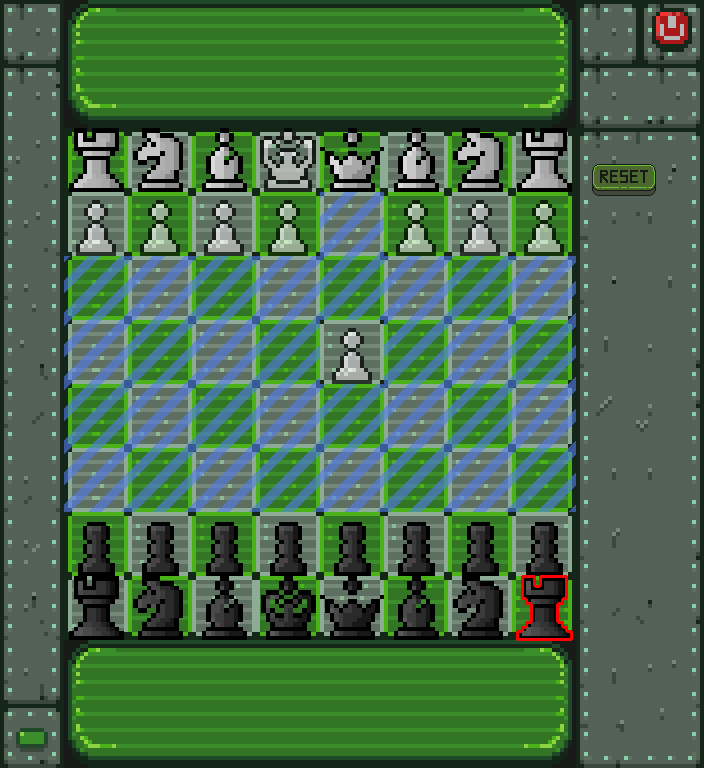
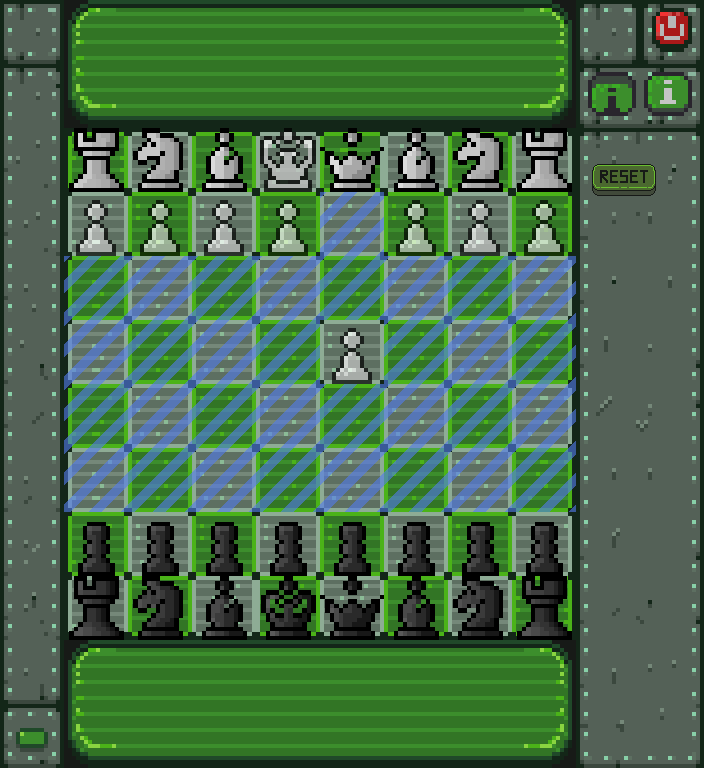
Big UI update 3

Changed region(s): [[0.8125, 0.0938, 1.0, 0.1562], [0.7188, 0.75, 0.8125, 0.8438]]

diff --git a/Gui.py b/Gui.py
@@ -10,20 +10,21 @@ class Button:
         et ses animations
         '''
         data = spritesheet.replace("png","json")
-        self.pressed = False
+        self.clicked = False
         self.animation = animation_module.Animation(spritesheet, data, framerate)
         self.image = self.animation.frames[0]
         self.rect = self.image.get_rect()
         self.set_position(pos_x,pos_y)
+        self.animation.index = len(self.animation.frames) - 1
 
     def set_position(self, x,y):
         self.rect.x, self.rect.y = x, y
 
     def button_display(self, screen, dt):
-        if self.pressed:
+        if self.clicked:
             self.animation.playing = True
-            self.animation.display_animation(screen, self.rect, dt)
-            self.pressed = self.animation.playing
+            self.animation.display_animation(screen, self.rect, dt,False)
+            self.clicked = self.animation.playing
         else:
             screen.blit(self.image,self.rect)
 
@@ -33,38 +34,69 @@ class Button:
         self.image = self.animation.frames[0]
         self.rect = self.image.get_rect(x=pos_x, y=pos_y)
 
-    def clicked(self):
-        "Méthode à appeler lorsque le bouton est pressé"
-        print("Pressed button")
 
     def click_event(self, mx, my):
         if self.rect.collidepoint(mx, my):
-            if not self.pressed :
-                self.pressed = True
-        return self.pressed
+            if not self.clicked :
+                self.clicked = True
+
+        return self.clicked
 
 
+class SwitchButton(Button):
+    def __init__(self,pos_x, pos_y,  spritesheet, framerate, pressed):
+        """
 
+        :param pos_x:
+        :param pos_y:
+        :param spritesheet:
+        :param framerate:
+        :param pressed: Boolean
+        """
+        super().__init__(pos_x, pos_y,  spritesheet, framerate)
+        self.pressed = pressed
+        print(self.pressed)
+        if self.pressed:
+            self.animation.index = len(self.animation.frames) - 1
+            self.image = self.animation.frames[0]
+        if not self.pressed:
+            self.animation.index = 0
+            self.image = self.animation.frames[len(self.animation.frames) - 1]
 
+    def click_event(self, mx, my):
+        if self.rect.collidepoint(mx, my):
+            if not self.clicked:
+                self.clicked = True
+                if self.pressed :
+                    self.animation.index = len(self.animation.frames) - 1
+                    self.image = self.animation.frames[0]
+                if not self.pressed:
+                    self.animation.index = 0
+                    self.image = self.animation.frames[len(self.animation.frames) - 1]
 
-"""win = pygame.display.set_mode((200,200))
-button = Button(10,10,"assets/GUI/button_pressed.png",12)
-button.scale_button(64,128)
-button.set_position(12,50)
-running = True
-previous_time = time.time()
-while running :
-    now = time.time()
-    dt = now - previous_time
-    previous_time = now
-    mx, my = pygame.mouse.get_pos()
-    for event in pygame.event.get() :
-        if event.type == pygame.QUIT :
-            running = False
-        if event.type == pygame.MOUSEBUTTONDOWN :
-            button.click_event(mx, my)
-    win.fill("black")
-    button.button_display(win, dt)
+                return self.clicked
 
-    pygame.display.flip()
-"""
+    def button_display(self, screen, dt):
+
+        if self.clicked:
+            if self.pressed :
+                self.animation.playing = True
+                self.animation.display_animation(screen, self.rect, dt, False)
+                if not self.animation.playing :
+                    self.clicked = False
+                    self.pressed = False
+                    return
+
+            if not self.pressed:
+                self.animation.playing = True
+                self.animation.display_animation(screen, self.rect, dt, True)
+                if not self.animation.playing:
+                    self.clicked = False
+                    self.pressed = True
+                    return
+
+        if not self.clicked:
+            if self.pressed :
+               screen.blit(self.animation.frames[-1], self.rect)
+            else :
+                screen.blit(self.animation.frames[0], self.rect)

diff --git a/Menus.py b/Menus.py
@@ -1,4 +1,6 @@
 import pygame
+
+import Gui
 import chess_globals_variable
 import constants
 import chess_engine
@@ -192,13 +194,15 @@ class PauseMenu(Menu):
 class ChessGame(Menu) :
     def __init__(self, screen, player_color ):
         super().__init__(screen)
-        self.reset_button = Button(592,164, "assets/GUI/button_pressed.png",19)
+        self.reset_button = Button(592,164, "assets/GUI/button_pressed.png",17)
         self.reset_button.scale_button(32,64)
-        self.quit_boutton = Button(652,8,"assets/GUI/Quit_button.png",24)
+        self.quit_boutton = Button(652,8,"assets/GUI/Quit_button.png",17)
         self.quit_boutton.scale_button(44,40)
         self.player_color = player_color
         self.board = chess_engine.ChessBoard()
         self.board.set_starting_position()
+        self.color_switch = Gui.SwitchButton(588,72, "assets/GUI/Black_switch.png",24,True)
+        self.color_switch.scale_button(44,104)
         self.left_ui = pygame.image.load('assets/board/export/Left_UI.png')
         self.left_ui = pygame.transform.scale(self.left_ui, (64,768))
         self.right_ui = pygame.image.load('assets/board/export/Right_Ui.png')
@@ -217,6 +221,7 @@ class ChessGame(Menu) :
         self.selected_case = ()
         self.computer_move = None
         self.pause_bg = None
+
         self.pause = PauseMenu(self.screen, self.pause_bg)
         self.endgame_menu = EndgameMenu(self.screen)
 
@@ -329,11 +334,24 @@ class ChessGame(Menu) :
             # on vérifie que le click est bien sur le board de l'échiquier
             if self.reset_button.click_event(self.mx, self.my) :
                 print("reset button")
+                if self.color_switch.pressed :
+                    self.player_color = 'black'
+                else :
+                    self.player_color = 'white'
                 self.board.set_starting_position()
                 self.Valid_moves = self.board.get_Valid_moves(self.board.colour_to_play)
                 self.selected_case = ()
             if self.quit_boutton.click_event(self.mx, self.my) :
                 print("Click Quit")
+
+            if self.color_switch.click_event(self.mx, self.my):
+                if self.board.side == 'white':
+                    self.board.side = 'black'
+                    return
+                else :
+                    self.board.side = 'white'
+
+
             if self.is_inside_board(self.mx, self.my) and self.board.colour_to_play == self.player_color:
                 if event.button == 1:
                     location = ((self.my - 128) // 64,
@@ -401,7 +419,7 @@ class ChessGame(Menu) :
         self.board.draw_board(self.screen)
 
 
-
+        self.color_switch.button_display(self.screen, self.dt)
         self.board.draw_pieces(self.screen)
         self.reset_button.button_display(self.screen, self.dt)
         self.quit_boutton.button_display(self.screen, self.dt)

diff --git a/animation_module.py b/animation_module.py
@@ -65,7 +65,7 @@ class Animation:
 
     def scale_animation(self, x, y):
         for i in range(len(self.frames)) :
-            image =pygame.transform.scale(self.frames[i], (y,x))
+            image = pygame.transform.scale(self.frames[i], (y,x))
             self.frames[i] = image
 
     def set_framerate(self, framerate):
@@ -74,19 +74,32 @@ class Animation:
     def draw_frame(self, screen, rect):
         screen.blit(self.frames[int(self.index)], rect)
 
-    def update_index(self, dt):
+    def update_index_forward(self, dt):
         self.index += self.increment * (dt * 60)
-        if self.index > len(self.frames)-1 :
+        if self.index > len(self.frames) - 1 :
             self.index = 0
             if not self.loop :
                 self.playing = False
 
-    def display_animation(self, screen, rect, dt) :
+    def update_index_backwardd(self, dt):
+        self.index -= self.increment * (dt * 60)
+        if self.index < 0:
+            self.index = len(self.frames) - 1
+            if not self.loop:
+                self.playing = False
+
+    def display_animation(self, screen, rect, dt, forward = True) :
         """
         On appelle cette méthode dans la boucle display
         """
         if self.playing :
-            self.draw_frame(screen, rect)
-            self.update_index(dt)
+            if forward :
+                self.draw_frame(screen, rect)
+                self.update_index_forward(dt)
+
+            if not forward :
+                self.draw_frame(screen, rect)
+                self.update_index_backwardd(dt)
+
 
 

diff --git a/chess_engine.py b/chess_engine.py
@@ -53,6 +53,7 @@ class ChessBoard:
 
 
         self.stockfish = sf.Stockfish(path="stockfish_14.1_win_x64_popcnt/stockfish_14.1_win_x64_popcnt.exe")
+        self.stockfish.set_skill_level(1)
 
     def next_color(self):
         if self.colour_to_play == "white":
@@ -536,7 +537,7 @@ class ChessBoard:
                 self.pat = True
 
 
-        return legal_moves
+        return legal_moves  
 
     # cet algorithme plus élégant ne recalcule plus tous le coups de l'adversaire pour voir si le roi est en echecs en traquant sa position
     # mais il part de la position du roi pour savoir si une pièce ennemi peut l'attaquer
@@ -561,11 +562,8 @@ class ChessBoard:
                            8):  # pour chaque case on ajoute l'offset multiplié par l'itération => case finale du move
                 check_row = king_loc[0] + i * d[0]
                 check_col = king_loc[1] + i * d[1]
-                #inside Board
                 if 0 <= check_col <= 7 and 0 <= check_row <= 7:
-                    #check_piece
                     check_piece = self.board[check_row][check_col]
-                    # if
                     if self.get_piece_colour([check_row, check_col]) == colour and \
                             self.get_piece_type([check_row, check_col]) != 'king':  # pièce alliée clouage possible
                         if possible_pin == ():
